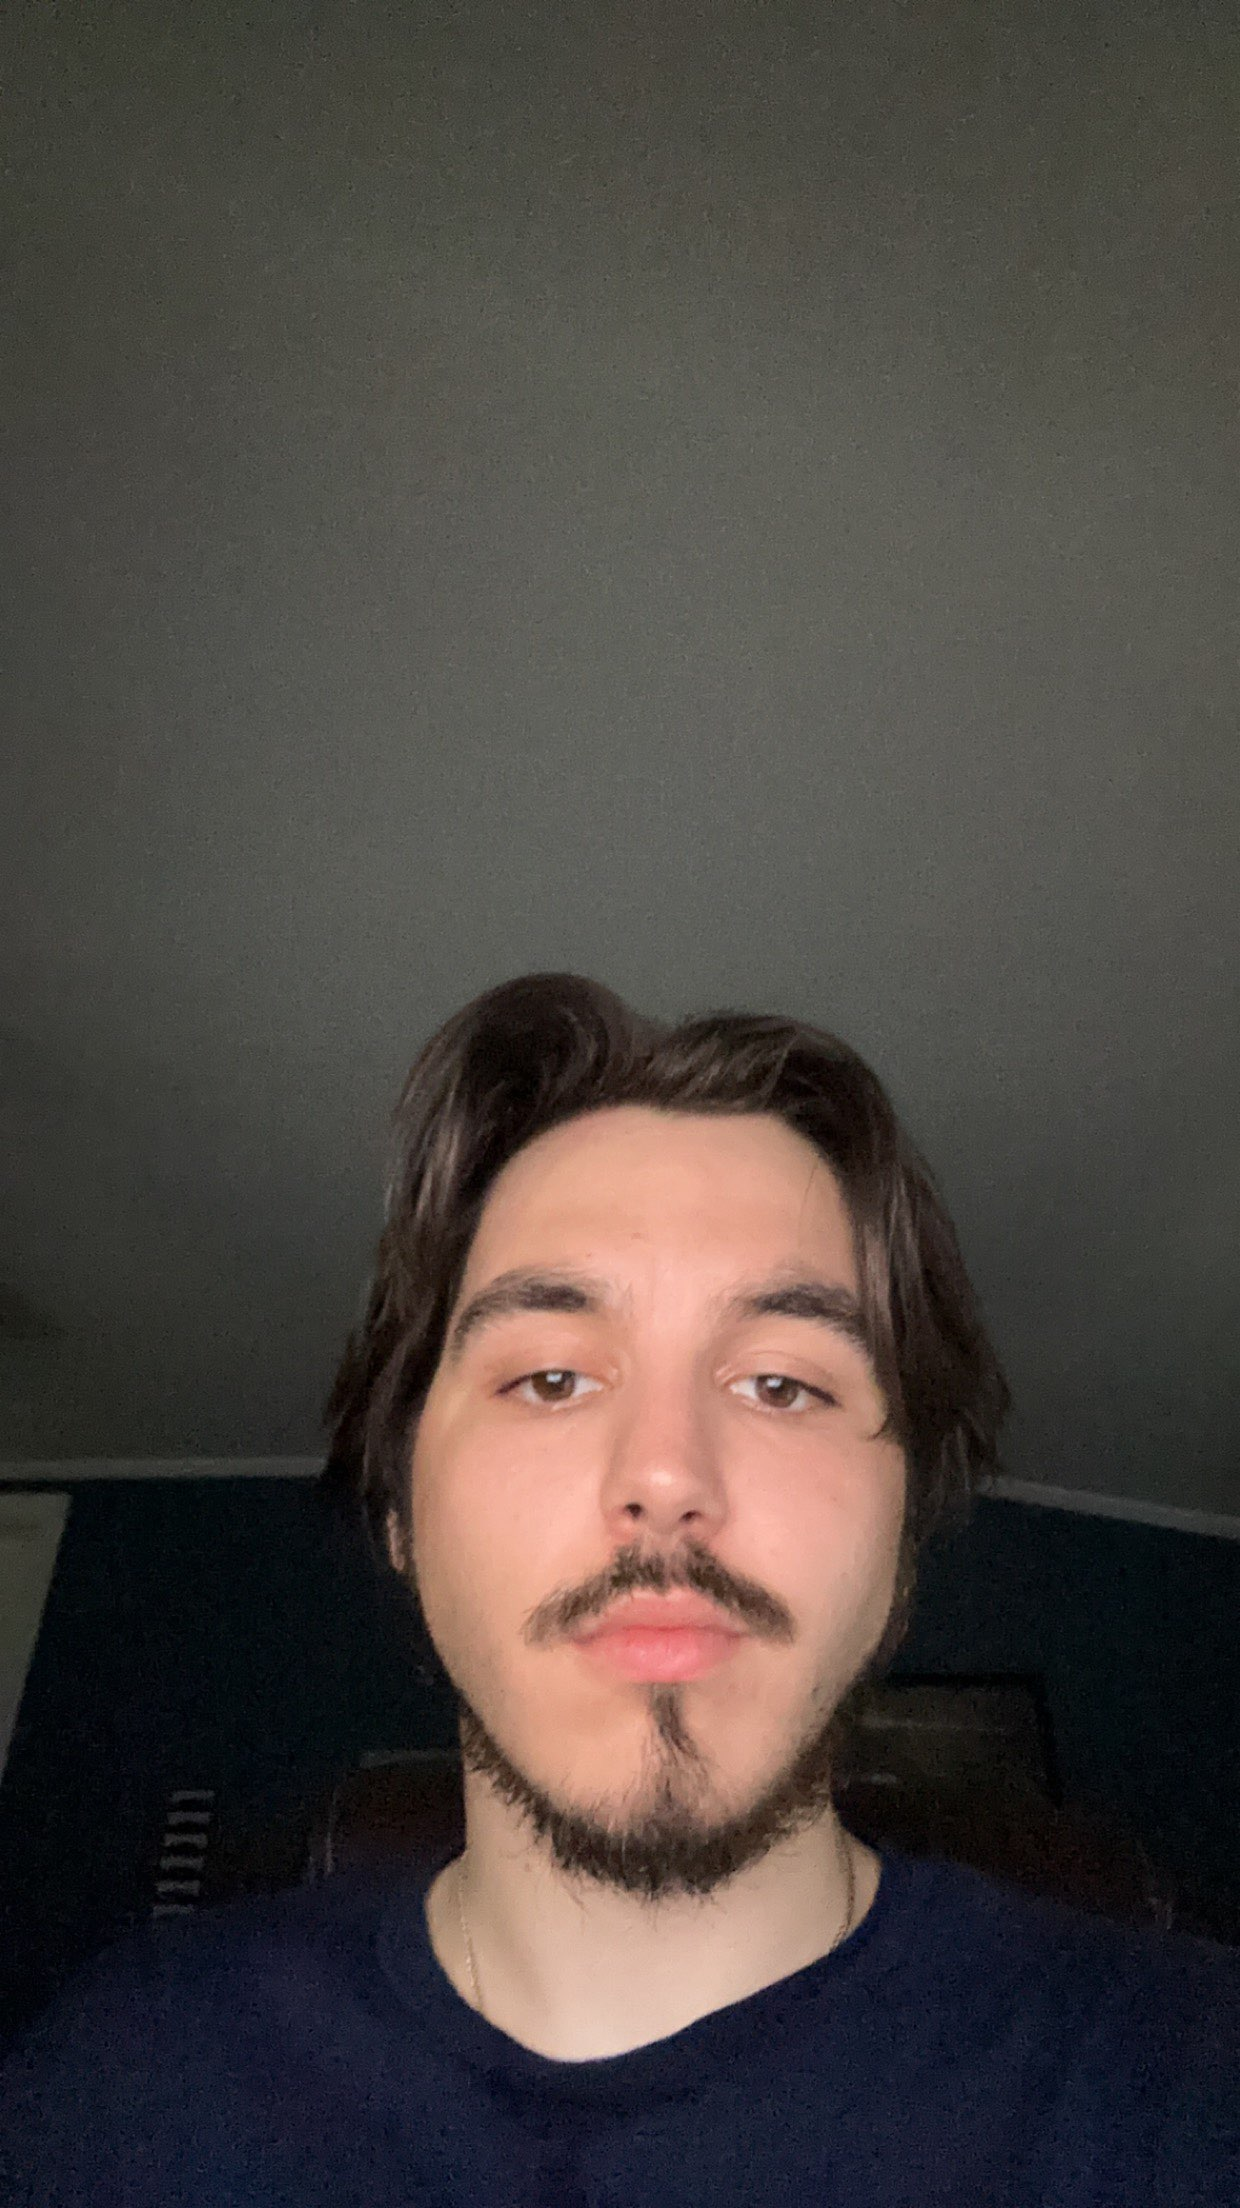
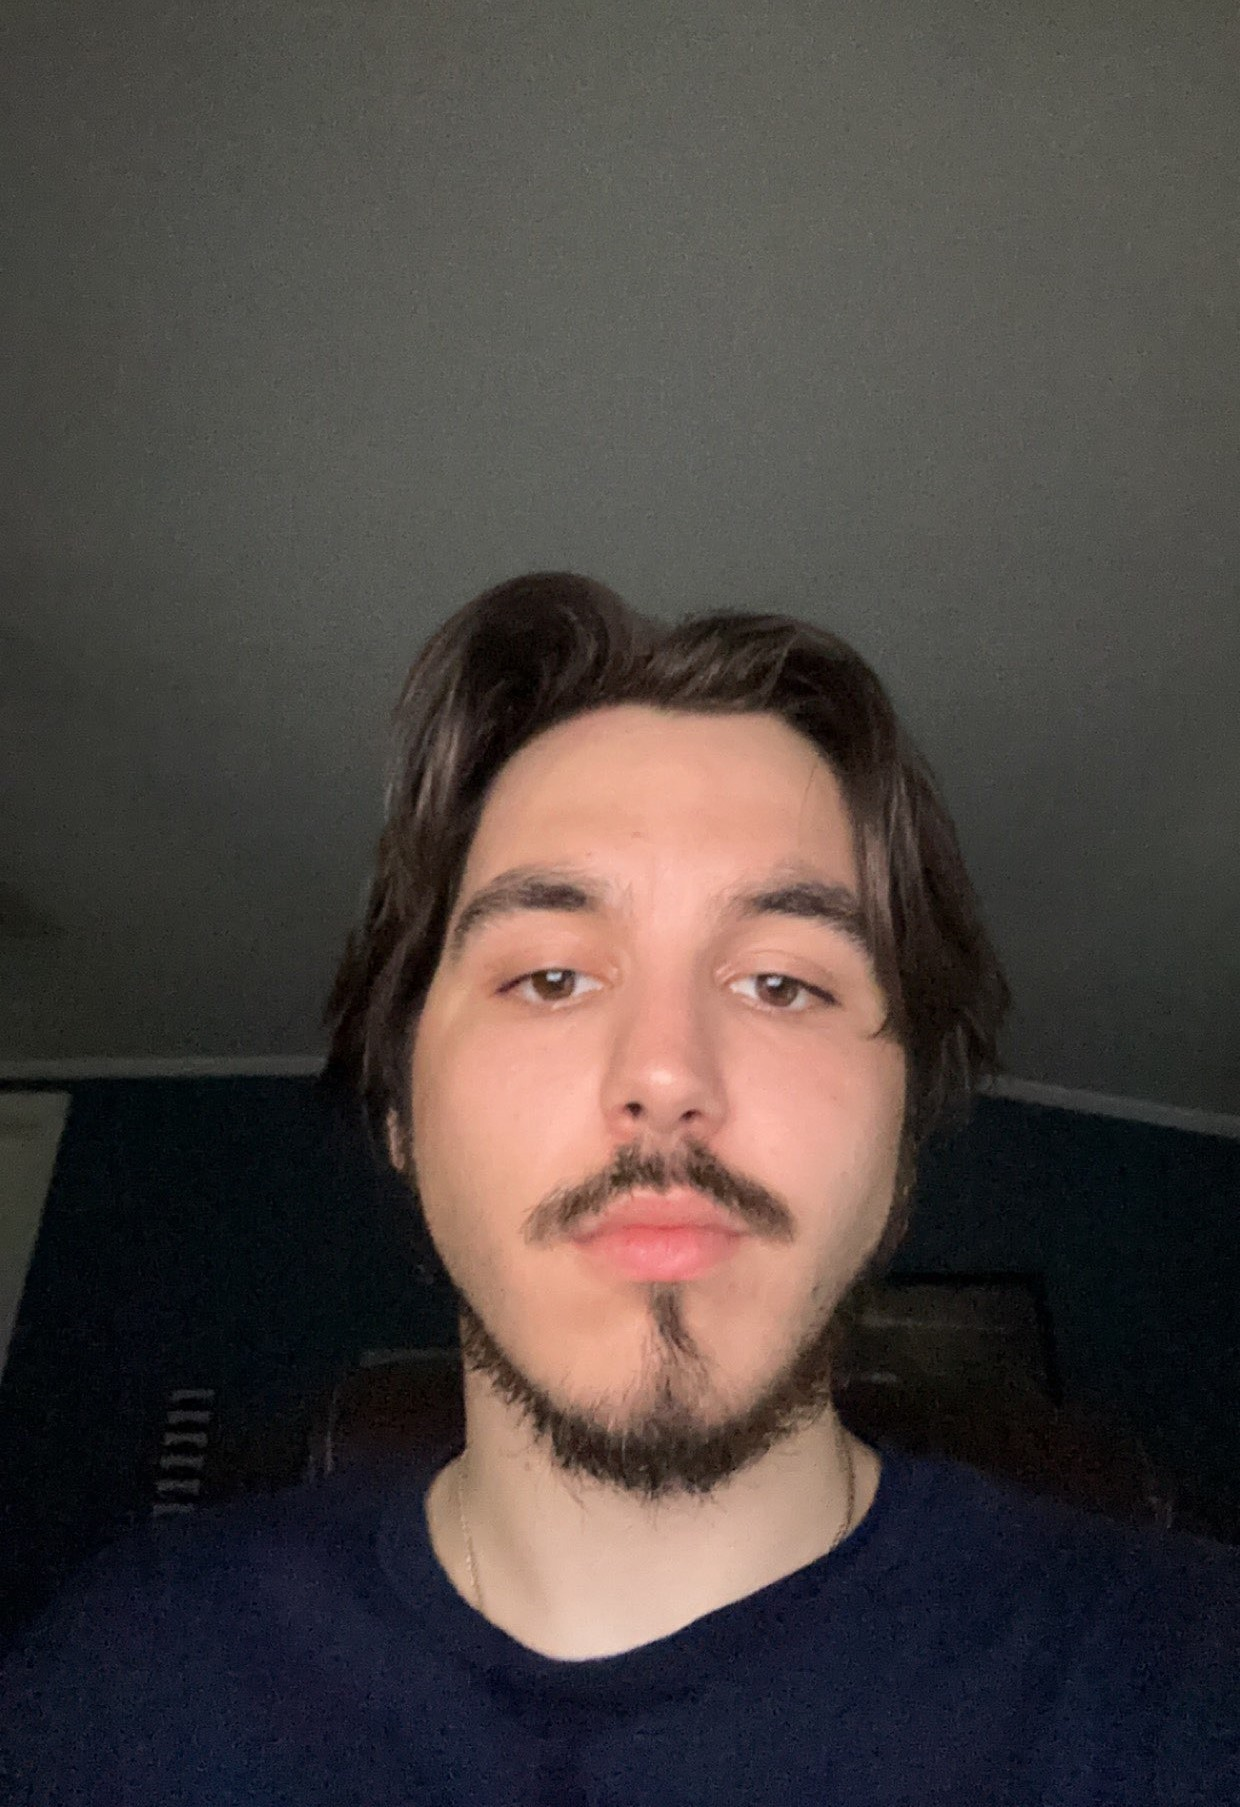
Updated devcard images

diff --git a/skate-spotter/src/index.css b/skate-spotter/src/index.css
@@ -135,7 +135,8 @@ h1 {
 }
 
 .devImg {
-  height: 450px;
+  height: 400px;
+  width: 600px;
   margin-left: 10px;
   margin-right: 30px;
   border-radius: 10px;
@@ -180,8 +181,8 @@ h1 {
 }
 
 .devCard {
-  width: 750px;
-  height: 500px;
+  width: 800px;
+  height: 450px;
   background: white;
   border-radius: 20px;
   display: flex;
